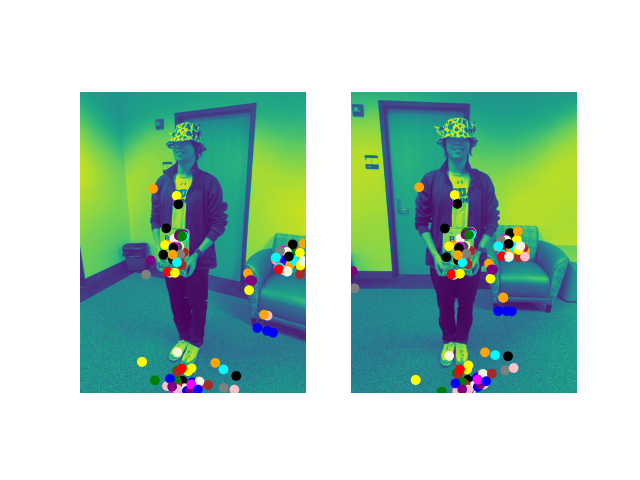
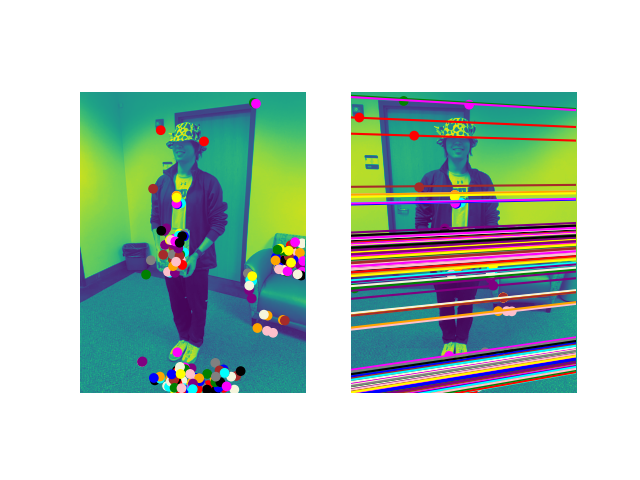
3d viz

diff --git a/two_view.py b/two_view.py
@@ -186,7 +186,7 @@ def find_fundamental_matrix(match_pts1, match_pts2):
         match_pts1, 
         match_pts2, 
         method=cv2.FM_RANSAC, 
-        ransacReprojThreshold=0.1, 
+        ransacReprojThreshold=1, 
         confidence=.99
     )
     print("F: ", F)
@@ -281,7 +281,7 @@ def calibrate(uncalibrated_3d_coords: List[np.array], threeD_prior_coords, prior
     threeD_prior_coords = threeD_prior_coords / threeD_prior_coords[-1]
     print(f"{threeD_prior_coords=}")
     assert threeD_prior_coords.shape == (4, 2)
-    uncalibrated_prior_length = np.linalg.norm(threeD_prior_coords[:,0] - threeD_prior_coords[:,1]) # length of prior in previous coordinate system
+    uncalibrated_prior_length = np.linalg.norm(threeD_prior_coords[:,0] - threeD_prior_coords[:,1], ord=2) # length of prior in previous coordinate system
     scale_factor = prior_length / uncalibrated_prior_length
     print(f'{uncalibrated_prior_length=} {prior_length=} {scale_factor=}')
     for coords in uncalibrated_3d_coords:
@@ -304,7 +304,7 @@ def height_estimation(calibrated_peak_coords, camera_altitude=None):
 
     # compute the height of the peak object in relation to the camera position
     if camera_altitude is None:
-        height = np.linalg.norm(calibrated_peak_coords[:,0] - calibrated_peak_coords[:,1])
+        height = np.linalg.norm(calibrated_peak_coords[:,0] - calibrated_peak_coords[:,1], ord=2)
 
     return height
 
@@ -331,29 +331,34 @@ def show_viz(img1, img2, pts1, pts2, F, title=""):
     for i in range(num_pts):
         lines.append(F @ pts1[i])
     
-    # for i, (a, b, c) in enumerate(lines):
-    #     x = np.array([0, img2.shape[1]])
-    #     y = (-c - a * x) / b
-    #     ax2.plot(x, y, c=colors[i % len(colors)], )
+    for i, (a, b, c) in enumerate(lines):
+        x = np.array([0, img2.shape[1]])
+        y = (-c - a * x) / b
+        ax2.plot(x, y, c=colors[i % len(colors)], )
     ax2.set_xlim(0, img1.shape[1])
     ax2.set_ylim(img1.shape[0], 0)
     plt.savefig('output/' + title + '.png')
     plt.show()
 
-def show_viz_3d(peaks, priors, cameras, keypoints):
+
+def show_viz_3d(peaks, priors, cameras):
     # visualize in 3D each point in peak, prior, camera, keypoints
     # each object is an np matrix of shape (4, n)
     from mpl_toolkits.mplot3d import Axes3D
+    cameras = cameras.T
+    assert peaks.shape[0] == 4, f"Expected shape (4, n), got {peaks.shape}"
+    assert priors.shape[0] == 4, f"Expected shape (4, n), got {priors.shape}"
+    assert cameras.shape[0] == 4, f"Expected shape (4, n), got {cameras.shape}"
 
     fig = plt.figure()
     ax = fig.add_subplot(111, projection='3d')
-    ax.scatter(peaks[0], peaks[1], peaks[2], c='r', marker='o')
-    ax.scatter(priors[0], priors[1], priors[2], c='b', marker='o')
-    ax.scatter(cameras[0], cameras[1], cameras[2], c='g', marker='o')
-    ax.scatter(keypoints[0], keypoints[1], keypoints[2], c='y', marker='o')
+    ax.scatter(peaks[0], peaks[1], peaks[2], c='r', marker='o', s=1)
+    ax.scatter(priors[0], priors[1], priors[2], c='b', marker='o', s=2)
+    # ax.scatter(cameras[0], cameras[1], cameras[2], c='g', marker='o', s=5)
     ax.set_xlabel('X Label')
     ax.set_ylabel('Y Label')
     ax.set_zlabel('Z Label')
+    ax.legend(['peaks', 'priors', 'cameras'])
     plt.show()
     
 
@@ -371,10 +376,10 @@ if __name__ == '__main__':
     ) # (2, H, W)
     pts1, pts2 = extract_kps_two_view(
         images, 
-        N=50, 
+        N=300, 
         corresp_path=corresp_path, 
         viz_match_path=viz_match_path, 
-        force_recompute=True
+        force_recompute=False
     )
     # pts1, pts2 = manual_extract_kps_two_view(
     #     images, 
@@ -389,8 +394,6 @@ if __name__ == '__main__':
     # (P, P’) is a solution -> (PH, P’H) is a solution
     P1, P2 = fundamental_matrix_to_camera_matrices(F) 
     C1, C2 = get_camera_centers([P1, P2])
-    
-    # visualize in 3D peak, prior, camera, keypoints
     
 
     peak_coords1, peak_coords2 = annotate_peak(
@@ -408,10 +411,13 @@ if __name__ == '__main__':
     threeD_peak_coords = triangulate(P1, P2, peak_coords1, peak_coords2)  # (4 x 2) 3d points
     threeD_prior_coords = triangulate(P1, P2, prior_coords1, prior_coords2) # (4 x 2) 3d points
 
-    prior_height = 27  # placeholder, units: centimeters (3d)
+    prior_height = 175  # placeholder, units: centimeters (3d)
     camera_altitude = None # None if we annotate two points (peak, base) of the mountain
     
-    calibrated_peak_coords, C1, C2 = calibrate([threeD_peak_coords, C1, C2], threeD_prior_coords, prior_height)
+    show_viz_3d(threeD_peak_coords, threeD_prior_coords, np.array([C1, C2]))
+
+    calibrated_peak_coords, calibrated_prior_coords, C1, C2 = calibrate([threeD_peak_coords, threeD_prior_coords, C1, C2], threeD_prior_coords, prior_height)
+    show_viz_3d(calibrated_peak_coords, calibrated_prior_coords, np.array([C1, C2]))
     height = height_estimation(calibrated_peak_coords, camera_altitude)
     print(height)
     assert 100 < height < 200, f"Simon's height out of bounds. Got {height=}. Expected 175cm."
